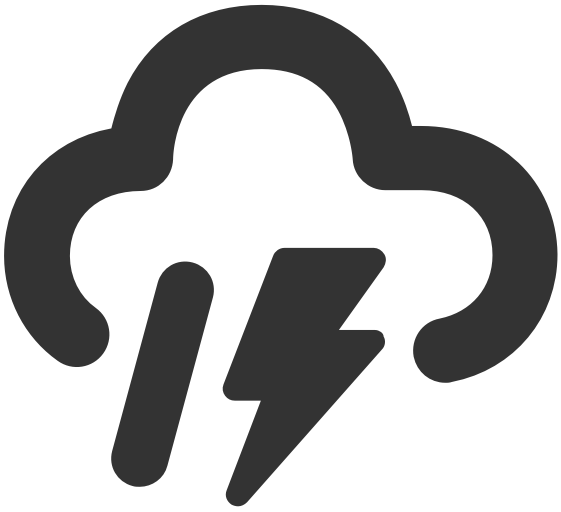
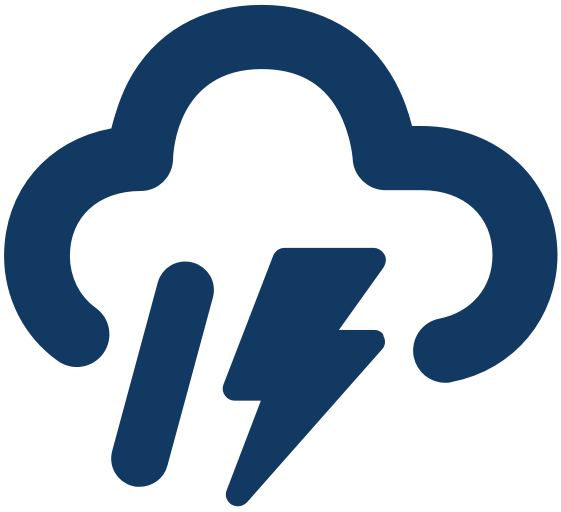
Updating style

diff --git a/css/quote.css b/css/quote.css
@@ -2,14 +2,19 @@ body {
   margin: 25px;
 }
 
+h1 {
+  color: #577d9b;
+}
+
 .curTemp {
   font-size: 28px;
 }
 
 .card {
-  /*background-color: #D2B48C;*/
-  background: #D2B48C url("PNG/textures.jpg");
+  background: linear-gradient(-45deg, #7da6cc 0%, #c9eef3 100%);
   border-radius: 5px;
+  box-shadow: 5px 5px 25px #ccc;
+  color: #113962;
   width: 400px;
   height: 425px;
   position: absolute;
@@ -18,7 +23,7 @@ body {
 }
 
 .cardBorder {
-  border: 2px solid #d6c8b4;
+  border: 2px solid #8cb5c8;
   border-radius: 5px;
   height: 415px;
   margin: 5px;

diff --git a/js/quote.js b/js/quote.js
@@ -31,16 +31,10 @@ $(function() {
 
 //Style changes when changing format of temperature
 $("#cel").click(function(){
-    $("#fah").removeClass('btn-info');
-    $("#fah").addClass('btn-default');
     $("#fah").removeClass('active');
-    $("#cel").addClass('btn-info');
     $("#cel").addClass('active');
 });
 $("#fah").click(function(){
-    $("#cel").removeClass('btn-info');
-    $("#cel").addClass('btn-default');
     $("#cel").removeClass('active');
-    $("#fah").addClass('btn-info');
     $("#fah").addClass('active');
 });

diff --git a/index.html b/index.html
@@ -19,7 +19,7 @@
     <div class="card">
       <div class="cardBorder">
         <h1>Weather App</h1>
-        <button id="fah" class="btn btn-info active">F</button>
+        <button id="fah" class="btn btn-default active">F</button>
         <button id="cel" class="btn btn-default">C</button>
         <div class="space"></div>
         <div id="city" class="lead">I don't know the weather because I can't see your location</div>
